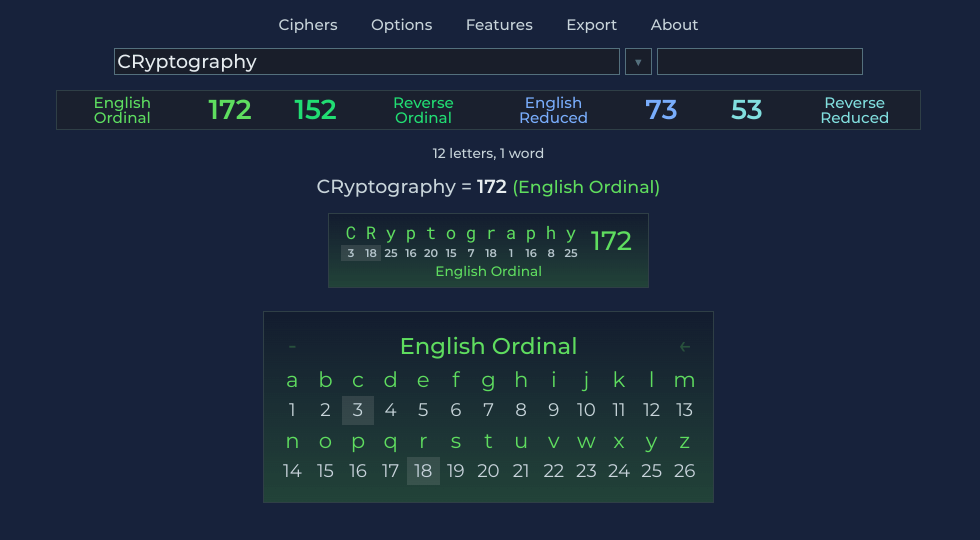
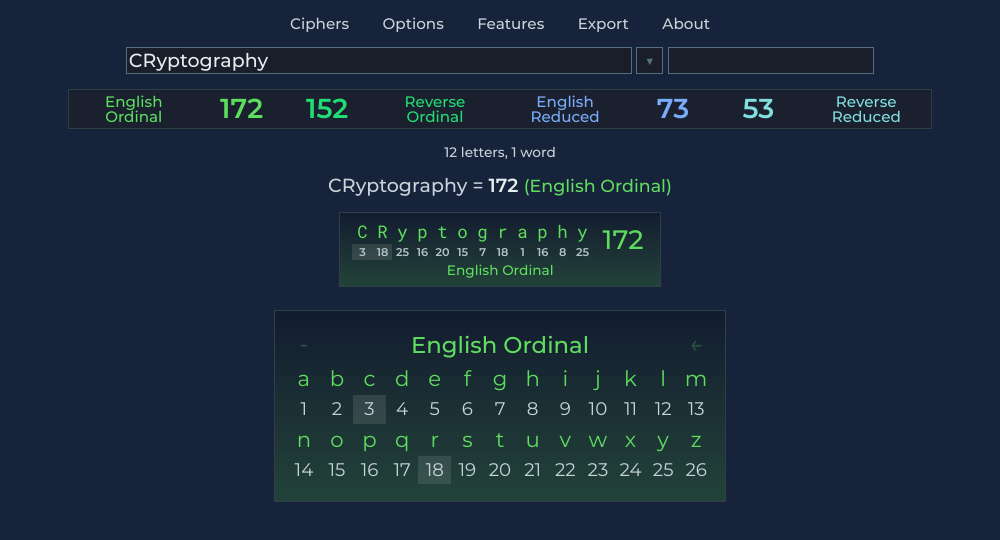
Web App manifest

diff --git a/index.html b/index.html
@@ -1,11 +1,15 @@
 <!DOCTYPE html>
+<html lang="en">
 <head>
 <title>GEMATRO - Gematria Calculator</title>
 <meta charset="utf-8">
 <meta name="description" content="Multi-language (Hebrew, Greek, Arabic, English, Russian, etc.) Gematria calculator with Highlighter, Numerology, custom Ciphers, Databases, Encoding and Export tools.">
 <meta name="viewport" content="width=480, maximum-scale=1, user-scalable=no">
-<meta name="theme-color" content="#1A202E">
+<meta name="theme-color" content="#1C2332">
 <link rel="shortcut icon" type="image/x-icon" href="res/favicon.ico">
+
+<!-- Web App manifest -->
+<link rel="manifest" href="manifest.json">
 
 <script src="lib/jquery.min.js"></script>
 
@@ -95,3 +99,4 @@ $(window).load(function(){
 <!-- html2canvas v1.0.0-alpha.12 -->
 
 </body>
+</html>

diff --git a/calc/calc.js b/calc/calc.js
@@ -67,8 +67,8 @@ var interfaceHue = 222 // calculator interface color
 var interfaceHueDefault = 222 // value for reset, updated on first run of updateInterfaceHue()
 var interfaceSat = 2.0 // interface saturation multiplier
 var interfaceSatDefault = 2.0
-var interfaceLit = 1.0 // interface lightness multiplier
-var interfaceLitDefault = 1.0
+var interfaceLit = 1.1 // interface lightness multiplier
+var interfaceLitDefault = 1.1
 
 var fontHue = 200 // font and outline hue
 var fontHueDefault = 200 // value for reset, updated on first run of updateFontHue()

diff --git a/calc/styles.css b/calc/styles.css
@@ -1354,7 +1354,7 @@ body {
 @media (max-width: 911px) { /* mobile */
 	.dateCalcBg {
 		margin: 1em 0em 0em 0em !important;
-		height: 350px;
+		height: 330px;
 	}
 }
 .dateInputLabel {
